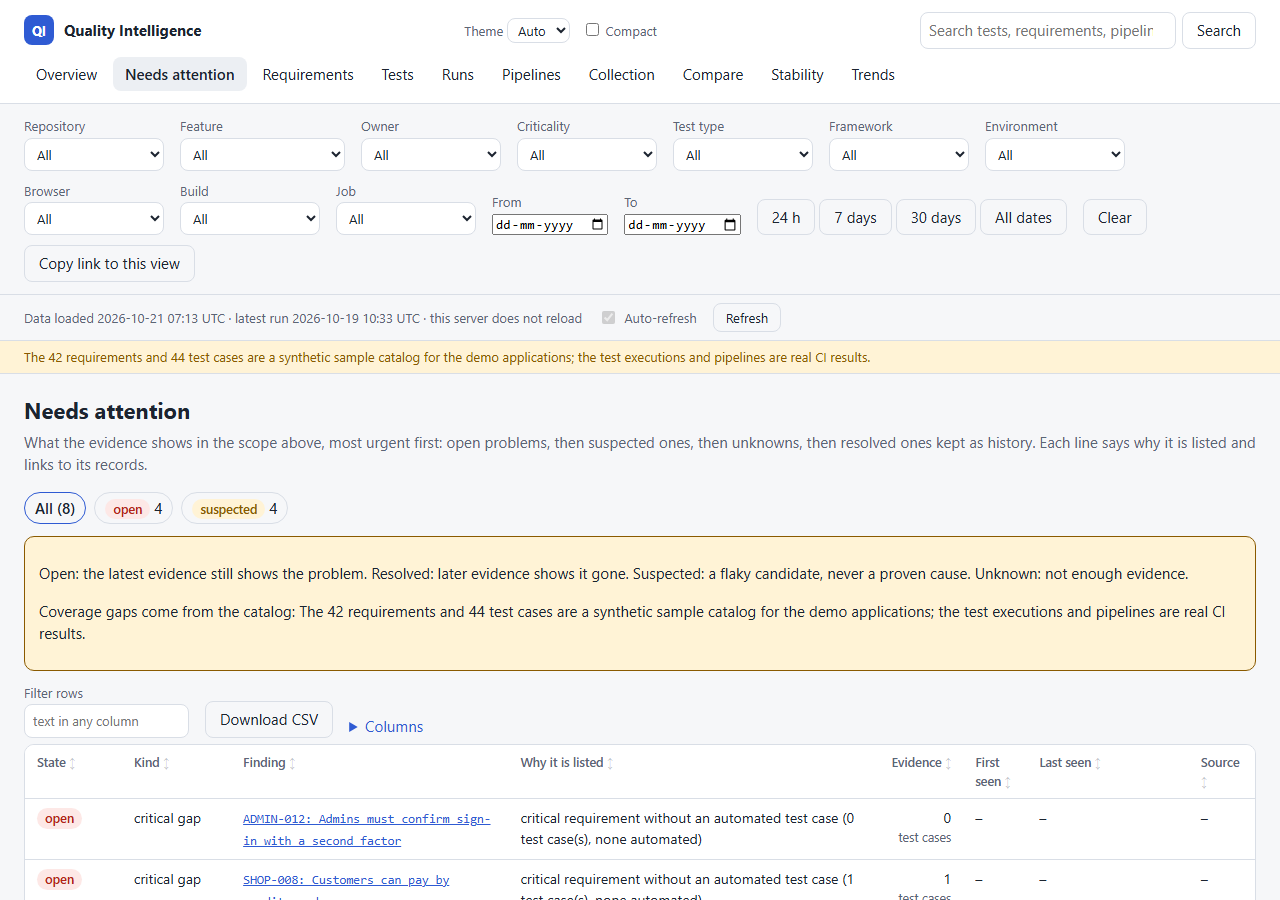
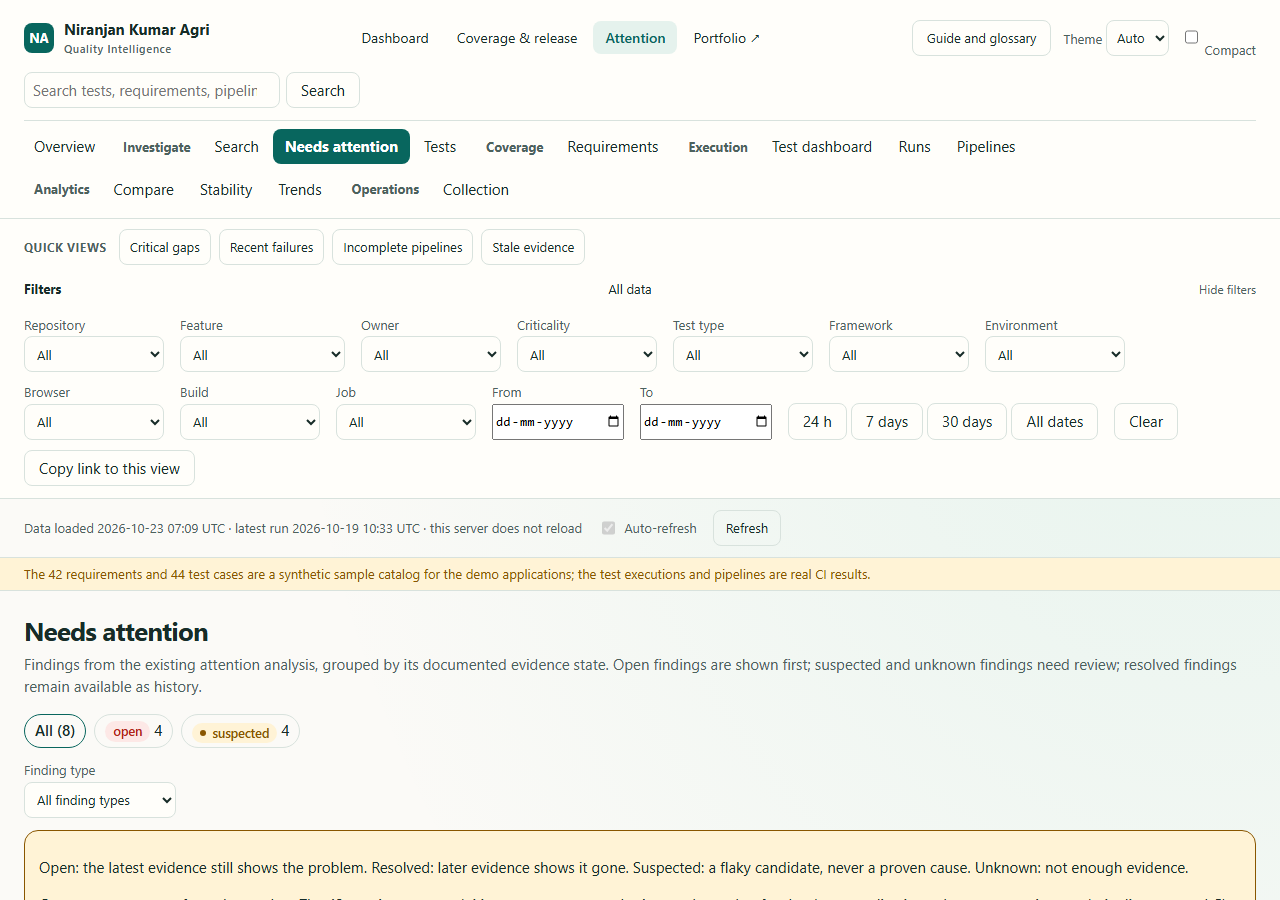
docs(dashboard): screenshots of the portfolio-styled dashboard
Every screenshot retaken with tools/screenshots.py after the redesign (the
old ones showed the previous palette) and reviewed in light, dark and phone
width. New: dashboard-executions(.png, -dark, -phone) for the landing page,
listed first in docs/dashboard.md, Screenshots; the overview is now captioned
as the coverage and release page (#/coverage).

diff --git a/docs/dashboard.md b/docs/dashboard.md
@@ -157,7 +157,9 @@ name) to the runs of that day; every chart keeps its table of numbers.
 
 | | |
 |---|---|
-| ![Overview](images/dashboard-overview.png) | ![Requirements, critical only](images/dashboard-requirements.png) |
+| ![Test execution dashboard, the landing page](images/dashboard-executions.png) | ![Test execution dashboard, dark theme](images/dashboard-executions-dark.png) |
+| ![Test execution dashboard on a phone](images/dashboard-executions-phone.png) | |
+| ![Coverage and release overview (#/coverage)](images/dashboard-overview.png) | ![Requirements, critical only](images/dashboard-requirements.png) |
 | ![History of the test that failed on 13 Oct](images/dashboard-test-history.png) | ![Runs, dark theme](images/dashboard-run.png) |
 | ![Trends](images/dashboard-trends.png) | ![Stability](images/dashboard-stability.png) |
 | ![Pipelines: the cancelled TaskBoard run is incomplete](images/dashboard-pipelines.png) | |
